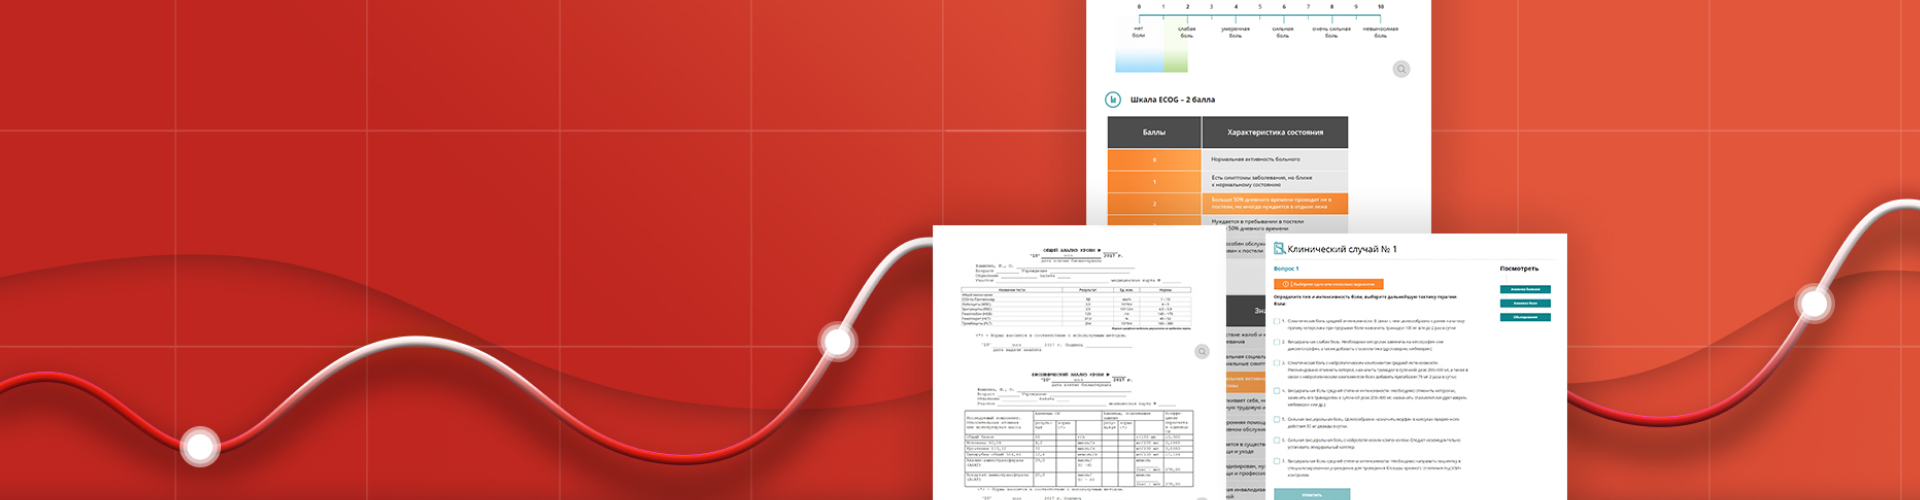
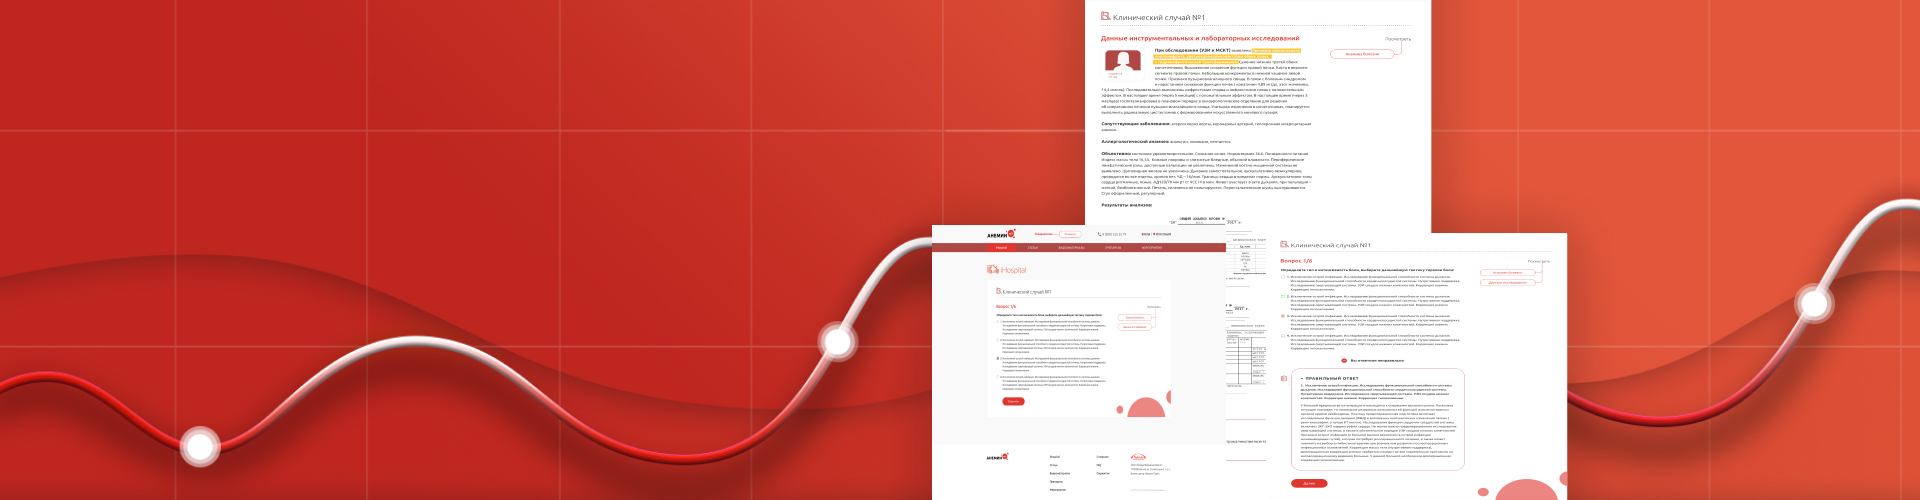
Текстовые правки

Changed region(s): [[0.4688, 0.0, 0.8125, 1.0], [0.75, 0.96, 0.8125, 1.0], [0.7188, 0.12, 0.75, 0.15]]

diff --git a/index.html b/index.html
@@ -475,7 +475,7 @@
 
 
     <div class="faq">
-        Вы можете узнать больше полезной информации в разделе <a href=#>FAQ</a>
+        Вы можете узнать больше интересной информации в разделе <a href=#>FAQ</a>
     </div>
 
 
@@ -496,8 +496,8 @@
                     <li><a href=#>iHospital</a></li>
                     <li><a href=#>Статьи</a></li>
                     <li><a href=#>Вебинары</a></li>
-                    <li><a href=#>Препараты</a></li>
                     <li><a href=#>Мероприятия</a></li>
+                    <li><a href=#>Препараты</a></li>
                 </ul>
                 <ul class="footer-list">
                     <li><a href=#>О портале</a></li>

diff --git a/css/styles.css b/css/styles.css
@@ -232,7 +232,8 @@ body {
   letter-spacing: 0.03em;
   padding-top: 10px;
   border-top: 8px solid #AF4845;
-  padding-bottom: 54px; }
+  padding-bottom: 54px;
+  text-transform: uppercase; }
 
 .article-link {
   display: block;

diff --git a/css/styles.scss b/css/styles.scss
@@ -339,6 +339,7 @@ body
 	padding-top:10px;
 	border-top:	8px solid #AF4845;
 	padding-bottom:54px;
+	text-transform:uppercase;
 
 }
 
